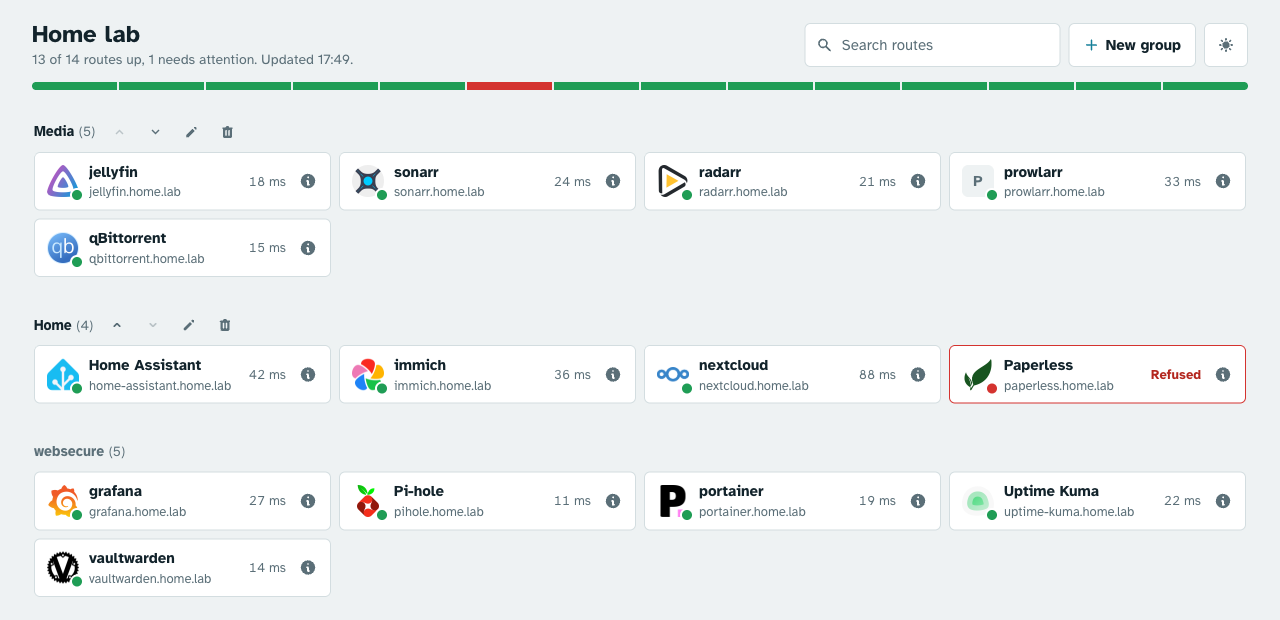
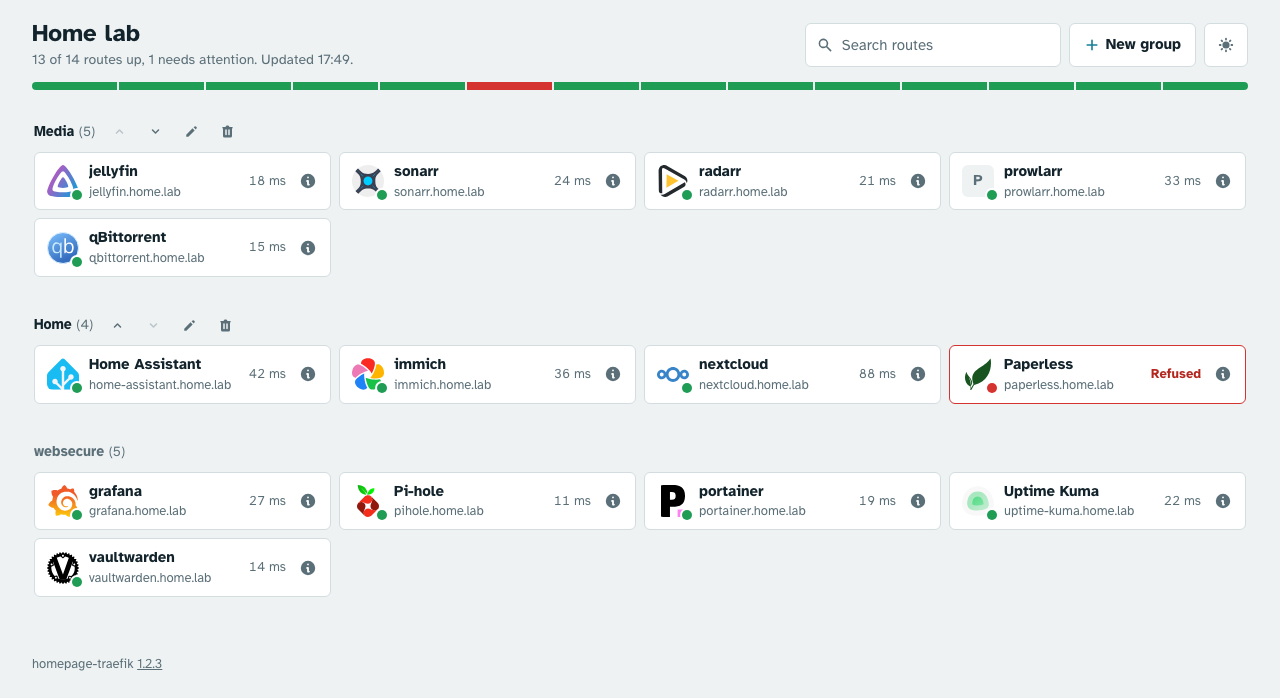
feat: show the image's version at the foot of the page
CI passes the image's Docker tag version (1.2.3 for a release, main for a
build of main) into the build, the server reports it in /api/routes, and
the page shows it in a footer linked to the release notes or repository.
Images built by hand say dev; outside Docker the footer stays hidden.

diff --git a/src/server.js b/src/server.js
@@ -182,8 +182,9 @@ function pathParam(pathname, prefix) {
 
 // `events`, when given, serves /api/events and tells other open pages about changes saved here. `frameAncestors`
 // lists the sites that may show the page in a frame: anyone who can open it can change its groups, so by default
-// only the homepage itself may, which stops another site tricking someone into dragging routes about.
-function createServer({ store, config, title, icons = { get: () => null }, events = null, frameAncestors = "'self'" }) {
+// only the homepage itself may, which stops another site tricking someone into dragging routes about. `version` is the
+// image's version, shown at the foot of the page, or null when not running from the image.
+function createServer({ store, config, title, version = null, icons = { get: () => null }, events = null, frameAncestors = "'self'" }) {
   async function handle(req, res) {
     const { pathname } = new URL(req.url, 'http://localhost');
     res.setHeader('X-Content-Type-Options', 'nosniff');
@@ -193,6 +194,7 @@ function createServer({ store, config, title, icons = { get: () => null }, event
       const { groups, routes: settings, error: configError } = await config.read();
       sendJson(res, 200, {
         title,
+        version,
         routes: store.getRoutesWithHealth().map(route => ({
           ...route,
           custom: settings[route.id] || null,
@@ -338,6 +340,7 @@ if (require.main === module) {
   const pollSeconds = readSeconds(process.env, 'POLL_INTERVAL_SECONDS', { fallback: 30, min: 5 });
   const healthSeconds = readSeconds(process.env, 'HEALTHCHECK_INTERVAL_SECONDS', { fallback: 60, min: 10 });
   const title = process.env.HOMEPAGE_TITLE || 'Routes';
+  const version = process.env.HOMEPAGE_VERSION || null;
   const { ports: entryPointPorts, invalid: invalidPorts } = parseEntryPointPorts(process.env.ENTRYPOINT_PORTS);
   if (invalidPorts.length) console.warn(`Ignoring ${invalidPorts.join(', ')} in ENTRYPOINT_PORTS: each entry should be <entry point>:<port>, such as websecure:8443`);
   const configFile = path.resolve(process.env.CONFIG_FILE || 'config/homepage.json');
@@ -392,7 +395,7 @@ if (require.main === module) {
       }
     };
 
-    const server = createServer({ store, config, title, icons, events, frameAncestors });
+    const server = createServer({ store, config, title, version, icons, events, frameAncestors });
     server.listen(port, () => console.log(`Homepage on :${port}, reading routes from ${traefikUrl} every ${pollSeconds}s, checking each route every ${healthSeconds}s, groups from ${configFile}`));
     for (const signal of ['SIGINT', 'SIGTERM']) {
       process.on(signal, () => shutDown({ server, events }).then(() => process.exit(0)));

diff --git a/test/server.test.js b/test/server.test.js
@@ -38,7 +38,7 @@ describe('server', () => {
     traefikRouters = [{ name: 'app@docker', rule: 'Host(`app.test`)', status: 'enabled' }];
     await store.refresh();
     const icons = { get: id => (id === 'app@docker' ? { type: 'image/svg+xml', body: Buffer.from('<svg></svg>'), hash: 'abc123' } : null) };
-    server = createServer({ store, config, title: 'My lab', icons });
+    server = createServer({ store, config, title: 'My lab', version: '1.2.3', icons });
     await new Promise(resolve => server.listen(0, resolve));
     base = `http://127.0.0.1:${server.address().port}`;
   });
@@ -61,6 +61,7 @@ describe('server', () => {
     const body = await res.json();
     assert.equal(res.status, 200);
     assert.equal(body.title, 'My lab');
+    assert.equal(body.version, '1.2.3');
     assert.equal(body.error, null);
     assert.equal(body.routes[0].url, 'http://app.test');
   });
@@ -399,6 +400,21 @@ describe('createRouteStore health checks', () => {
     await store.refresh();
     await store.refreshHealth();
     assert.equal(await store.refreshHealth(), false);
+  });
+});
+
+describe('version', () => {
+  it('is null when the server is not running from the image', async () => {
+    const config = { read: async () => ({ groups: [], routes: {}, error: null }) };
+    const store = createRouteStore({ traefikUrl: 'http://traefik:8080', fetchImpl: async () => jsonResponse([]) });
+    const server = createServer({ store, config, title: 'Lab' });
+    await new Promise(resolve => server.listen(0, resolve));
+    try {
+      const body = await (await fetch(`http://127.0.0.1:${server.address().port}/api/routes`)).json();
+      assert.equal(body.version, null);
+    } finally {
+      server.close();
+    }
   });
 });
 

diff --git a/e2e/fixtures.js b/e2e/fixtures.js
@@ -46,10 +46,12 @@ const ROUTERS = [
   { name: 'api@internal', rule: 'PathPrefix(`/api`)', entryPoints: ['traefik'], status: 'enabled', provider: 'internal' },
 ];
 
-// `homepage` is a running homepage server with its own config folder, reading from its own fake Traefik.
-// Health checks are pinned to this machine so they never leave it; these tests don't depend on their results.
+// `homepage` is a running homepage server with its own config folder, reading from its own fake Traefik, and
+// reporting `version` as the image's version. Health checks are pinned to this machine so they never leave it; these
+// tests don't depend on their results.
 const test = base.extend({
   routers: [ROUTERS, { option: true }],
+  version: ['1.2.3', { option: true }],
 
   traefik: async ({ routers }, use) => {
     const traefik = await startTraefik(structuredClone(routers));
@@ -57,7 +59,7 @@ const test = base.extend({
     await traefik.close();
   },
 
-  homepage: async ({ traefik }, use) => {
+  homepage: async ({ traefik, version }, use) => {
     const dir = await fs.mkdtemp(path.join(os.tmpdir(), 'homepage-e2e-'));
     const port = await freePort();
     const configFile = path.join(dir, 'config', 'homepage.json');
@@ -70,6 +72,7 @@ const test = base.extend({
         POLL_INTERVAL_SECONDS: '5',
         HEALTHCHECK_ADDRESS: '127.0.0.1',
         HEALTHCHECK_TIMEOUT_SECONDS: '1',
+        HOMEPAGE_VERSION: version,
       },
       stdio: 'ignore',
     });

diff --git a/public/app.js b/public/app.js
@@ -6,6 +6,7 @@ import { addressOf, byName, detailRows, displayName, groupKey, isHidden, matches
 import './theme-toggle.js';
 
 const REFRESH_MS = 30000;
+const REPO_URL = 'https://github.com/gregoryduckworth/homepage-traefik';
 
 const els = {
   title: $('title'),
@@ -32,6 +33,8 @@ const els = {
   routeSubmit: $('route-submit'),
   detailsHide: $('details-hide'),
   hiddenToggle: $('hidden-toggle'),
+  footer: $('footer'),
+  version: $('version'),
 };
 
 closeOnBackdrop(els.details);
@@ -542,7 +545,16 @@ async function load() {
     els.title.textContent = data.title;
     document.title = data.title;
   }
+  if (data.version) showVersion(data.version);
   render();
+}
+
+// The image's version, as tagged on Docker. A release links to its notes; a build of main, to the repository.
+function showVersion(version) {
+  const release = /^\d+\.\d+\.\d+$/.test(version);
+  els.version.textContent = version;
+  els.version.href = release ? `${REPO_URL}/releases/tag/v${version}` : REPO_URL;
+  els.footer.hidden = false;
 }
 
 els.filter.addEventListener('input', render);

diff --git a/e2e/homepage.spec.js b/e2e/homepage.spec.js
@@ -164,6 +164,19 @@ test('nothing on the page is blocked by its Content-Security-Policy', async ({ p
   expect(await page.evaluate(() => window.cspViolations)).toEqual([]);
 });
 
+test('the foot of the page shows the version, linked to its release notes', async ({ page }) => {
+  await expect(page.getByRole('contentinfo')).toHaveText('homepage-traefik 1.2.3');
+  await expect(page.getByRole('link', { name: '1.2.3' })).toHaveAttribute('href', 'https://github.com/gregoryduckworth/homepage-traefik/releases/tag/v1.2.3');
+});
+
+test.describe('a build of main', () => {
+  test.use({ version: 'main' });
+
+  test('links its version to the repository, as it has no release notes', async ({ page }) => {
+    await expect(page.getByRole('link', { name: 'main' })).toHaveAttribute('href', 'https://github.com/gregoryduckworth/homepage-traefik');
+  });
+});
+
 test.describe('theme', () => {
   test.use({ colorScheme: 'light' });
 

diff --git a/public/index.html b/public/index.html
@@ -41,6 +41,10 @@
     <button type="button" class="button-quiet hidden-toggle" id="hidden-toggle" hidden></button>
   </main>
 
+  <footer class="footer" id="footer" hidden>
+    homepage-traefik <a id="version" target="_blank" rel="noopener noreferrer"></a>
+  </footer>
+
   <dialog class="details" id="details" aria-labelledby="details-title">
     <header class="details-head">
       <span class="dot" id="details-dot"></span>

diff --git a/public/styles.css b/public/styles.css
@@ -620,6 +620,16 @@ a.tile-link:hover .tile-name { color: var(--accent); }
 .hidden-toggle { display: block; margin: 1.5rem 0; }
 .hidden-toggle[hidden] { display: none; }
 
+.footer {
+  max-width: 80rem;
+  margin: 0 auto;
+  padding: 0 clamp(0.75rem, 3vw, 2rem) 1.5rem;
+  font-size: 0.8125rem;
+  color: var(--muted);
+}
+
+.footer a { color: inherit; }
+
 @keyframes pulse {
   50% { opacity: 0.3; }
 }

diff --git a/README.md b/README.md
@@ -8,7 +8,7 @@ A small homepage that lists every route your Traefik is serving, with a live sta
 - **Your layout.** Rename routes, set icons, hide the ones you don't need and drag them into groups. Everyone who opens the page sees the same layout.
 - **Lightweight.** A single Node.js process with no runtime dependencies.
 
-![The homepage listing routes in two custom groups and one entrypoint group, with a status strip across the top and one route refused](docs/screenshot.png)
+![The homepage listing routes in two custom groups and one entrypoint group, with a status strip across the top, one route refused and the version at the foot](docs/screenshot.png)
 
 ## Quick start
 
@@ -50,7 +50,7 @@ Which image tag to use:
 | `1.2.3`  | Exactly that release                                                                                               |
 | `main`   | The latest commit on `main`, released or not                                                                       |
 
-The release notes say what changed. Docker doesn't fetch a newer image by itself: run `docker compose pull && docker compose up -d` to upgrade.
+The foot of the page shows which one you're running, as its tag: `1.2.3` for a release, `main` for a build of `main`. The release notes say what changed. Docker doesn't fetch a newer image by itself: run `docker compose pull && docker compose up -d` to upgrade.
 
 ## Where routes come from
 
@@ -180,7 +180,7 @@ Apart from one line at startup, the server only logs when something goes wrong, 
 
 | Endpoint                        | Description                                                                                                    |
 | ------------------------------- | -------------------------------------------------------------------------------------------------------------- |
-| `GET /api/routes`               | Routes with their health, saved settings (`custom`) and found icon, plus your groups                           |
+| `GET /api/routes`               | Routes with their health, saved settings (`custom`) and found icon, plus your groups and the image's `version` |
 | `PUT /api/groups`               | Replace the groups: `{"groups": [...]}`                                                                        |
 | `PUT /api/routes/<router name>` | Set any of `{"name": "...", "icon": "...", "hidden": true}`. Empty or `false` clears; omitted fields are kept |
 | `GET /api/icons/<router name>`  | The icon found on the route's site                                                                             |
